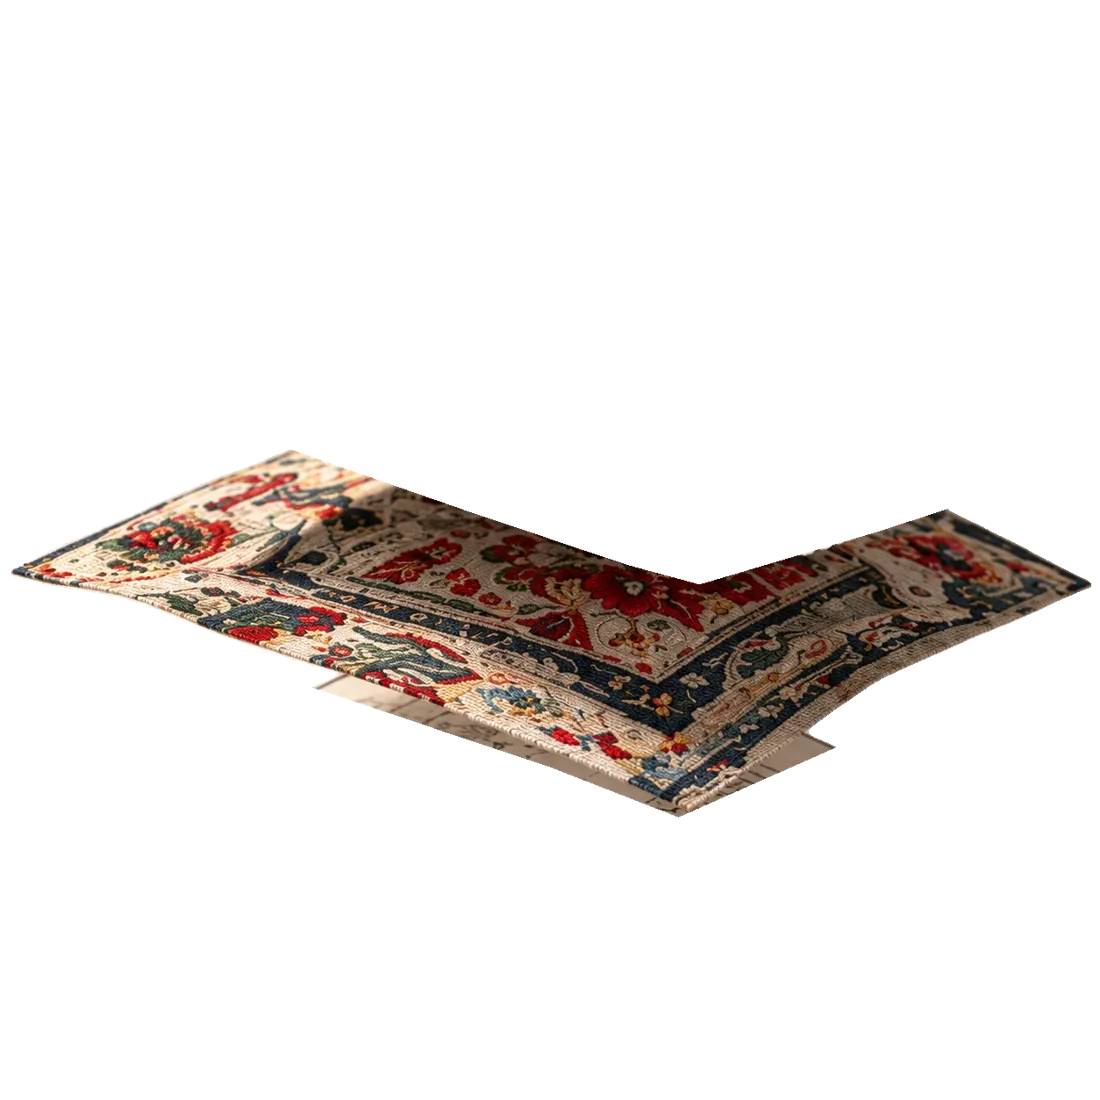
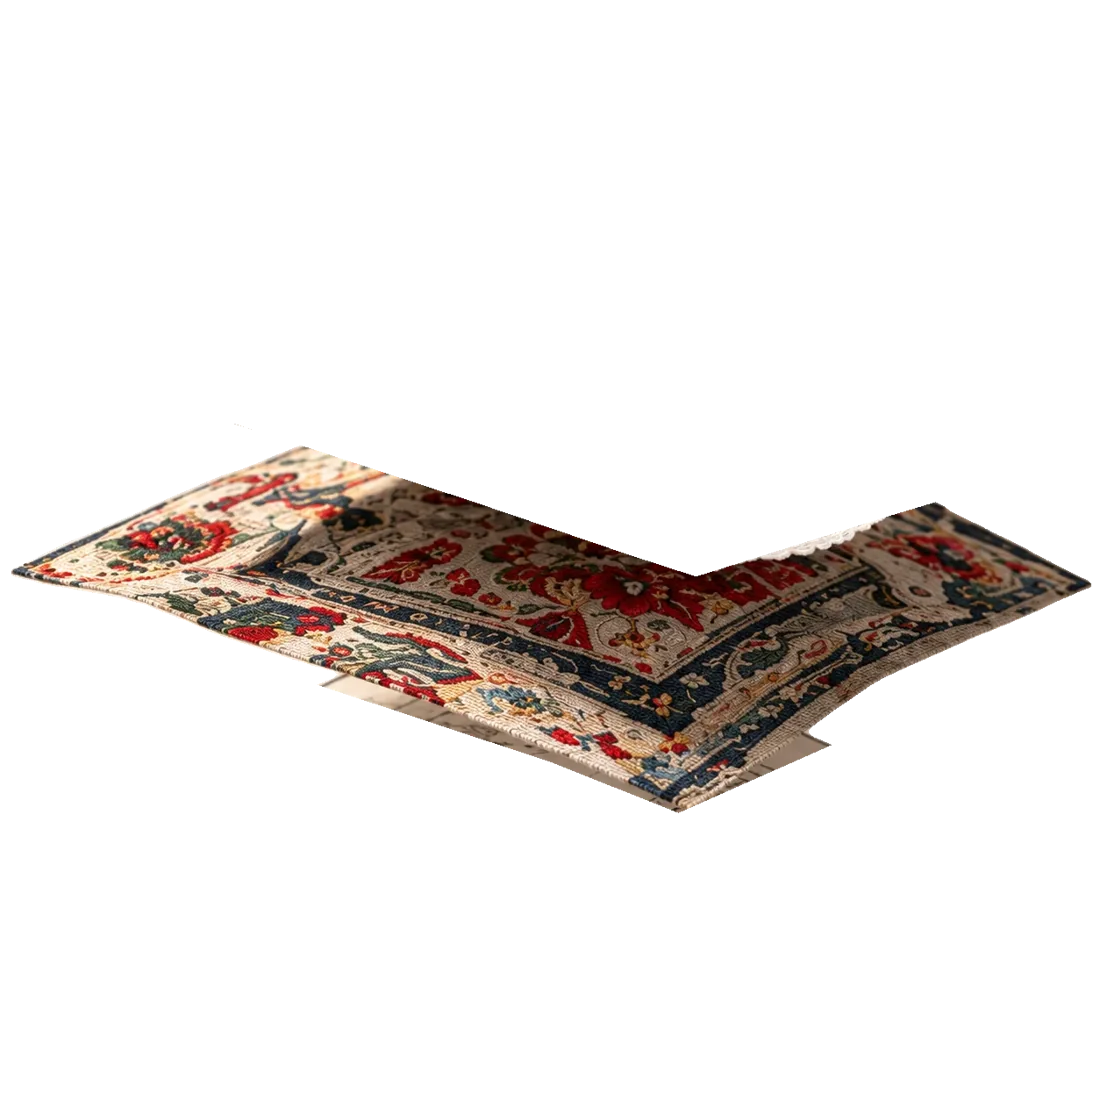
Scéna 04: stoh sa dvíha spolu a pláty ostávajú odspodu – rez medzi vrstvami je vždy skrytý

diff --git a/o-krojarke.css b/o-krojarke.css
@@ -114,8 +114,17 @@ body[data-scene="2"] .sc-nav, body[data-scene="4"] .sc-nav, body[data-scene="6"]
 .s4 .layers { aspect-ratio: 1; max-height: 78svh; justify-self: center; width: min(100%, 78svh); }
 /* pláty začínajú zložené na predlohe a dvíhajú sa jeden po druhom; koncový stav = pôvodná fotka,
    takže sa nikdy neodkryje miesto, ktoré bolo prekryté */
-.s4 .layers .ly { position: absolute; inset: 0; width: 100%; height: 100%; object-fit: contain; will-change: transform;
-  transform: translate3d(0, calc(var(--o) * (1 - clamp(0, (var(--p, 0) - var(--a)) / .24, 1))), 0); }
+.s4 .layers {
+  /* tri kroky: A zdvihne všetko nad predlohou, B čipku a výšivku, C už len výšivku.
+     Medzera medzi susednými plátmi tak nikdy neprekročí tú z pôvodnej fotky. */
+  --eA: clamp(0, (var(--p, 0) - .06) / .26, 1);
+  --eB: clamp(0, (var(--p, 0) - .34) / .26, 1);
+  --eC: clamp(0, (var(--p, 0) - .62) / .26, 1);
+}
+.s4 .layers .ly { position: absolute; inset: 0; width: 100%; height: 100%; object-fit: contain; will-change: transform; }
+.s4 .layers .l2 { transform: translate3d(0, calc(12% * (1 - var(--eA))), 0); }
+.s4 .layers .l3 { transform: translate3d(0, calc(12% * (1 - var(--eA)) + 12% * (1 - var(--eB))), 0); }
+.s4 .layers .l4 { transform: translate3d(0, calc(12% * (1 - var(--eA)) + 12% * (1 - var(--eB)) + 11% * (1 - var(--eC))), 0); }
 .s4 .layers::after { content: ""; position: absolute; left: 12%; right: 12%; bottom: -4%; height: 12%; background: radial-gradient(50% 50% at 50% 50%, rgba(24,22,20,.25), transparent 70%); filter: blur(10px); z-index: -1; }
 .pr-steps { list-style: none; margin: 0; padding: 0 0 0 22px; border-left: 1px solid var(--line); display: grid; gap: 22px; position: relative; }
 .pr-steps::before { content: ""; position: absolute; left: -1px; top: 0; width: 1px; height: calc((var(--step, 0) + 1) / 5 * 100%); background: var(--accent); transition: height .6s var(--ease); }

diff --git a/o-krojarke.html b/o-krojarke.html
@@ -13,7 +13,7 @@
 <link rel="preload" as="image" href="img/ab/stroj.webp">
 <link rel="stylesheet" href="styles.css?v=21">
 <link rel="stylesheet" href="motion.css?v=2">
-<link rel="stylesheet" href="o-krojarke.css?v=8">
+<link rel="stylesheet" href="o-krojarke.css?v=9">
 </head>
 <body class="page-about" data-scene="1">
 
@@ -137,11 +137,11 @@
     <p class="lead">Predloha, materiál, trukovanie, ručná práca. Každý kroj prejde rukami len jednej remeselníčky — od prvej kresby po posledný steh.</p>
     <a class="link-arrow" href="index.html#proces">Celý postup <svg><use href="#arrow"/></svg></a>
   </div>
-  <div class="layers" role="img" aria-label="Vrstvy kroja sa dvíhajú jedna po druhej: predloha, vzor, čipka, výšivka">
-    <img class="ly" style="--o:0%;--a:0" src="img/ab/vrstva-1-predloha.webp?3" alt="">
-    <img class="ly" style="--o:12%;--a:.52" src="img/ab/vrstva-2-vzor.webp?3" alt="">
-    <img class="ly" style="--o:24%;--a:.3" src="img/ab/vrstva-3-cipka.webp?3" alt="">
-    <img class="ly" style="--o:35%;--a:.08" src="img/ab/vrstva-4-vysivka.webp?3" alt="">
+  <div class="layers" role="img" aria-label="Vrstvy kroja sa dvíhajú zo stohu: predloha, vzor, čipka, výšivka">
+    <img class="ly l1" src="img/ab/vrstva-1-predloha.webp?5" alt="">
+    <img class="ly l2" src="img/ab/vrstva-2-vzor.webp?5" alt="">
+    <img class="ly l3" src="img/ab/vrstva-3-cipka.webp?5" alt="">
+    <img class="ly l4" src="img/ab/vrstva-4-vysivka.webp?5" alt="">
   </div>
   <ol class="pr-steps">
     <li><span class="n">01</span><span>Predloha</span></li>
